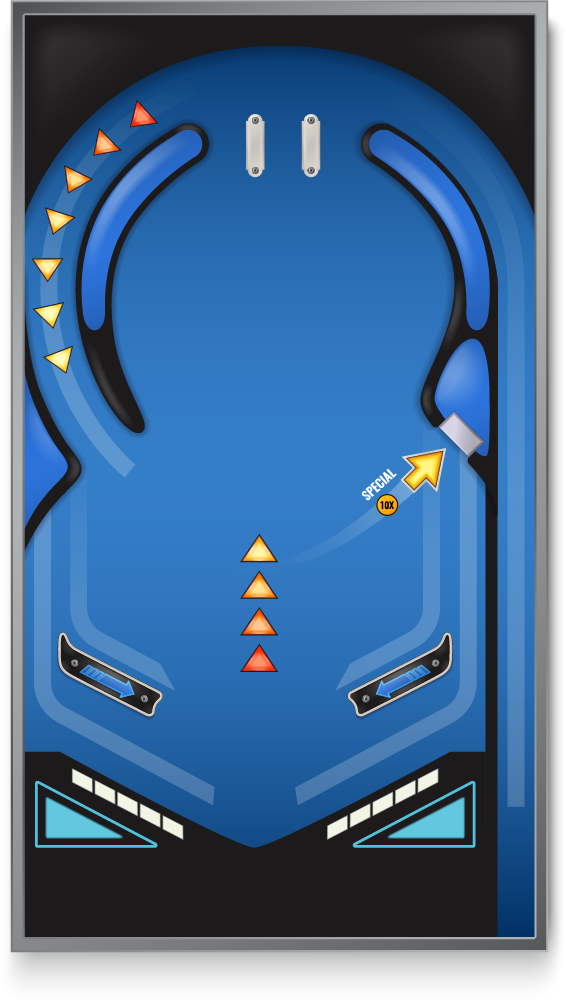
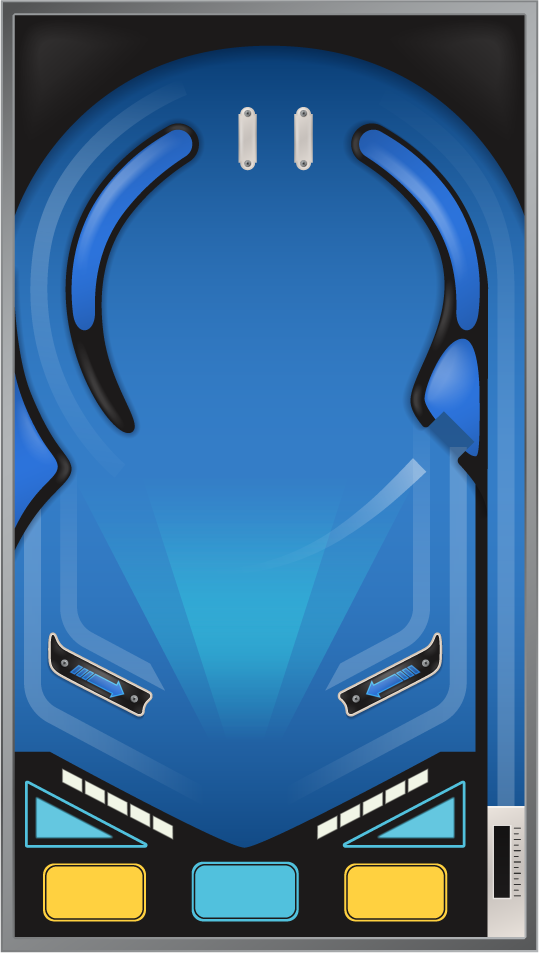
Added Modue lights

diff --git a/ModuleScene.cpp b/ModuleScene.cpp
@@ -11,6 +11,7 @@
 #include "Ball.h"
 #include "EntityManager.h"
 #include "ModuleFonts.h"
+#include "ModuleLights.h"
 
 ModuleScene::ModuleScene(Application* app, bool start_enabled) : Module(app, start_enabled)
 {
@@ -42,14 +43,18 @@ bool ModuleScene::Start()
 	CreateColliders();
 	CreateSensors();
 
-	// Load textures
-	img = App->textures->Load("pinball/pinball_composition.png");
-	//img = App->textures->Load("pinball/background.png");
 
-	//fonts
+	// Load textures
+	//img = App->textures->Load("pinball/pinball_composition.png");
+	img = App->textures->Load("pinball/background.png");
+	img = App->textures->Load("pinball/top.png");
+
+
+	//Fonts
 	const char fontText[] = "ABCDEFGHIJKLNOPQRSTUVXYZ0123456789:!? ";
 	font = App->fonts->Load("pinball/Fonts/white.png", fontText, 1);
 	fontHype = App->fonts->Load("pinball/Fonts/yellow.png", fontText, 1);
+
 
 	//Audio
 	Mix_VolumeMusic(10);
@@ -68,6 +73,7 @@ bool ModuleScene::Start()
 	currentScore = 0;
 
 	App->entityManager->Enable();
+	App->lights->Enable();
 
 
 	return ret;
@@ -339,7 +345,6 @@ void ModuleScene::CreateColliders()
 	};
 	triangle_left = App->physics->CreateChain(0, 0, REBOUND_LEFT, 28);
 	triangle_left->body->SetType(b2BodyType::b2_staticBody);
-	triangle_left->ctype = ColliderType::TRIANGLE;
 	
 	int REBOUND_RIGHT[28] =
 	{
@@ -360,7 +365,6 @@ void ModuleScene::CreateColliders()
 	};
 	triangle_right = App->physics->CreateChain(0, 0, REBOUND_RIGHT, 28);
 	triangle_right->body->SetType(b2BodyType::b2_staticBody);
-	triangle_right->ctype = ColliderType::TRIANGLE;
 
 	int FRANKFURT_LEFT[24] =
 	{
@@ -399,15 +403,15 @@ void ModuleScene::CreateColliders()
 	frankfurt_right->body->SetType(b2BodyType::b2_staticBody);
 	frankfurt_right->ctype = ColliderType::FRANKFURT;
 
-	blue = App->physics->CreateCircle(190+37, 196+39, 38);
+	blue = App->physics->CreateCircle(190+37, 196+39, 25);
 	blue->body->SetType(b2BodyType::b2_staticBody);
 	blue->ctype = ColliderType::BLUE_25;
 
-	red = App->physics->CreateCircle(300+39, 196 + 39, 38);
+	red = App->physics->CreateCircle(300+39, 196 + 39, 25);
 	red->body->SetType(b2BodyType::b2_staticBody);
 	red->ctype = ColliderType::RED_100;
 
-	yellow = App->physics->CreateCircle(246 + 37, 294 + 37, 37);
+	yellow = App->physics->CreateCircle(246 + 37, 294 + 37, 25);
 	yellow->body->SetType(b2BodyType::b2_staticBody);
 	yellow->ctype = ColliderType::YELLOW_50;
 }
@@ -439,16 +443,16 @@ void ModuleScene::CreateSensors()
 	sensorTriLeft->body->SetType(b2_staticBody);
 	sensorTriLeft->ctype = ColliderType::TRIANGLE;
 
-	/*int SENSOR_TRI_RIGHT[8]
+	int SENSOR_TRI_RIGHT[8]
 	{
-		127, 531,
-		109, 540,
-		149, 623,
-		171, 615
+		380, 533,
+		397, 542,
+		357, 624,
+		338, 616
 	};
-	sensorTriLeft = App->physics->CreateChainSensor(0, 0, SENSOR_TRI_LEFT, 8);
-	sensorTriLeft->body->SetType(b2_staticBody);
-	sensorTriLeft->ctype = ColliderType::TRIANGLE;*/
+	sensorTriRight = App->physics->CreateChainSensor(0, 0, SENSOR_TRI_RIGHT, 8);
+	sensorTriRight->body->SetType(b2_staticBody);
+	sensorTriRight->ctype = ColliderType::TRIANGLE;
 }
 
 void ModuleScene::OnCollision(PhysBody* bodyA, PhysBody* bodyB)

diff --git a/ModuleLights.cpp b/ModuleLights.cpp
@@ -1,0 +1,84 @@
+#include "ModuleLights.h"
+#include "Globals.h"
+#include "Application.h"
+#include "ModuleRender.h"
+#include "ModuleScene.h"
+#include "ModuleInput.h"
+#include "ModuleTextures.h"
+#include "ModuleDebug.h"
+#include "ModuleAudio.h"
+#include "Flippers.h"
+#include "Ball.h"
+#include "ModuleFonts.h"
+
+ModuleLights::ModuleLights(Application* app, bool start_enabled) : Module(app, start_enabled) {}
+
+ModuleLights::~ModuleLights() {}
+
+bool ModuleLights::Start()
+{
+	arrows_left = App->textures->Load("pinball/Lights/arrows_left.png");
+	arrows_mid = App->textures->Load("pinball/Lights/arrows_mid.png");
+	combo_right = App->textures->Load("pinball/Lights/combo_right.png");
+	trigger = App->textures->Load("pinball/Lights/trigger.png");
+	x10 = App->textures->Load("pinball/Lights/x10.png");
+
+	return true;
+}
+
+update_status ModuleLights::Update()
+{
+	if (App->debug->lightsON)
+	{
+		arrows_left_ON = true;
+		arrows_mid_ON = true;
+		combo_right_ON = true;
+		trigger_ON = true;
+		x10_ON = true;
+	}
+	else
+	{
+		arrows_left_ON = false;
+		arrows_mid_ON = false;
+		combo_right_ON = false;
+		trigger_ON = false;
+		x10_ON = false;
+	}
+	
+	return UPDATE_CONTINUE;
+}
+
+update_status ModuleLights::PostUpdate()
+{
+	if (arrows_left_ON)
+	{
+		SDL_Rect rect = { 0, 0, 128, 275 };
+		App->renderer->Blit(arrows_left, 31, 99, &rect);
+	}
+	else
+	{
+		SDL_Rect rect = { 128, 0, 128, 275 };
+		App->renderer->Blit(arrows_left, 31, 99, &rect);
+	}
+
+	if (arrows_mid_ON)
+	{
+		SDL_Rect rect = { 0, 0, 48, 148 };
+		App->renderer->Blit(arrows_mid, 231, 522, &rect);
+	}
+	else
+	{
+		SDL_Rect rect = { 48, 0, 48, 148 };
+		App->renderer->Blit(arrows_mid, 231, 522, &rect);
+	}
+
+
+
+	return UPDATE_CONTINUE;
+}
+
+bool ModuleLights::CleanUp()
+{
+
+	return true;
+}

diff --git a/Application.cpp b/Application.cpp
@@ -13,6 +13,7 @@
 #include "ModuleDebug.h"
 #include "ModuleDeath.h"
 #include "ModuleTitle.h"
+#include "ModuleLights.h"
 
 Application::Application()
 {
@@ -24,13 +25,14 @@ Application::Application()
 	physics = new ModulePhysics(this);
 
 	title = new ModuleTitle(this, true);
-
 	scene_intro = new ModuleScene(this, false);
-	entityManager = new EntityManager(this, false);
 	death = new ModuleDeath(this, false);
 
-	debug = new ModuleDebug(this, true);
+	lights = new ModuleLights(this, false);
+	entityManager = new EntityManager(this, false);
+
 	fade = new ModuleFadeToBlack(this, true);
+	debug = new ModuleDebug(this, true);
 	renderer = new ModuleRender(this);
 
 
@@ -44,7 +46,6 @@ Application::Application()
 	AddModule(input);
 	AddModule(audio);
 	
-
 	AddModule(fonts);
 	AddModule(physics);
 	
@@ -52,9 +53,10 @@ Application::Application()
 	AddModule(title);
 	AddModule(scene_intro);
 	AddModule(death);
+
+	AddModule(lights);
 	AddModule(entityManager);
 	
-
 	AddModule(fade);
 	AddModule(debug);
 	AddModule(renderer);

diff --git a/ModuleLights.h b/ModuleLights.h
@@ -1,0 +1,31 @@
+#pragma once
+#include "Module.h"
+#include "Globals.h"
+#include "Entity.h"
+
+
+class ModuleLights : public Module
+{
+public:
+	ModuleLights(Application* app, bool start_enabled);
+	~ModuleLights();
+
+	// Main module steps
+	bool Start();
+	update_status Update();
+	update_status PostUpdate();
+	bool CleanUp();
+
+public:
+	SDL_Texture* arrows_left = nullptr;
+	SDL_Texture* arrows_mid = nullptr;
+	SDL_Texture* combo_right = nullptr;
+	SDL_Texture* trigger = nullptr;
+	SDL_Texture* x10 = nullptr;
+
+	bool arrows_left_ON = false;
+	bool arrows_mid_ON = false;
+	bool combo_right_ON = false;
+	bool trigger_ON = false;
+	bool x10_ON = false;
+};

diff --git a/Application.h b/Application.h
@@ -9,8 +9,8 @@ class ModuleTextures;
 class ModuleInput;
 class ModuleAudio;
 class ModuleFonts;
-class ModulePlayer;
 class ModuleScene;
+class ModuleLights;
 class EntityManager;
 class ModulePhysics;
 class ModuleFadeToBlack;
@@ -29,9 +29,8 @@ public:
 	ModuleInput* input;
 	ModuleAudio* audio;
 	ModuleFonts* fonts;
-	ModulePlayer* player;
-
 	ModuleScene* scene_intro;
+	ModuleLights* lights;
 	EntityManager* entityManager;
 	ModulePhysics* physics;
 	ModuleFadeToBlack* fade;

diff --git a/ModuleDebug.cpp b/ModuleDebug.cpp
@@ -37,9 +37,13 @@ update_status ModuleDebug::Update()
 	}
 
 	// F1: View colliders / logic
-	if (App->input->GetKey(SDL_SCANCODE_F1) == KEY_DOWN) {
+	if (App->input->GetKey(SDL_SCANCODE_F1) == KEY_DOWN)
 		App->physics->debug = !App->physics->debug;
-	}
+	
+	//F2: Lights ON/OFF
+	if (App->input->GetKey(SDL_SCANCODE_F2) == KEY_DOWN)
+		lightsON = !lightsON;
+	
 
 	return UPDATE_CONTINUE;
 }

diff --git a/ModuleScene.h b/ModuleScene.h
@@ -63,6 +63,8 @@ public:
 	bool sensorx10Sensed;
 	PhysBody* sensorTriLeft;
 	bool sensorTriLeftSensed;
+	PhysBody* sensorTriRight;
+	bool sensorTriRightSensed;
 	
 
 	// Textures

diff --git a/ModuleDebug.h b/ModuleDebug.h
@@ -19,8 +19,9 @@ public:
 
 public:
 	//flags
-	bool drawDebug;
+	bool drawDebug = false;
 	bool variables = false;
+	bool lightsON = false;
 
 private:
 
